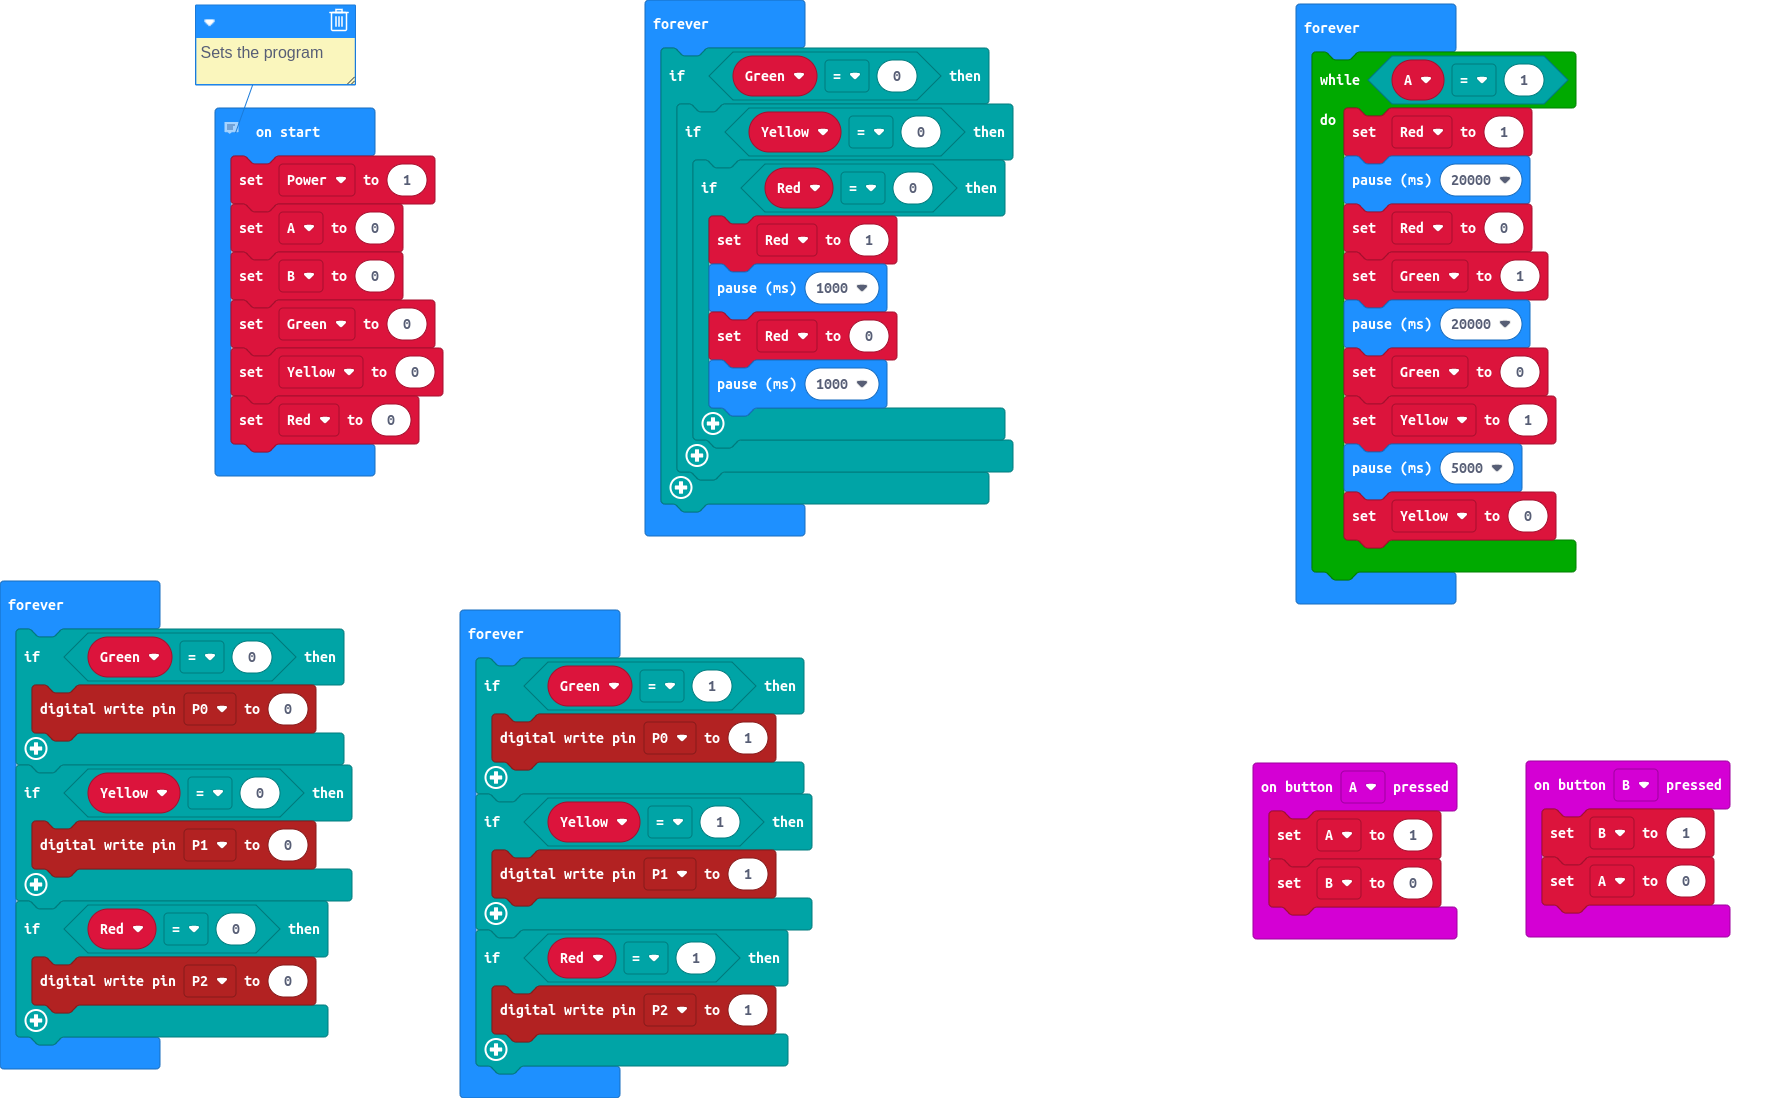
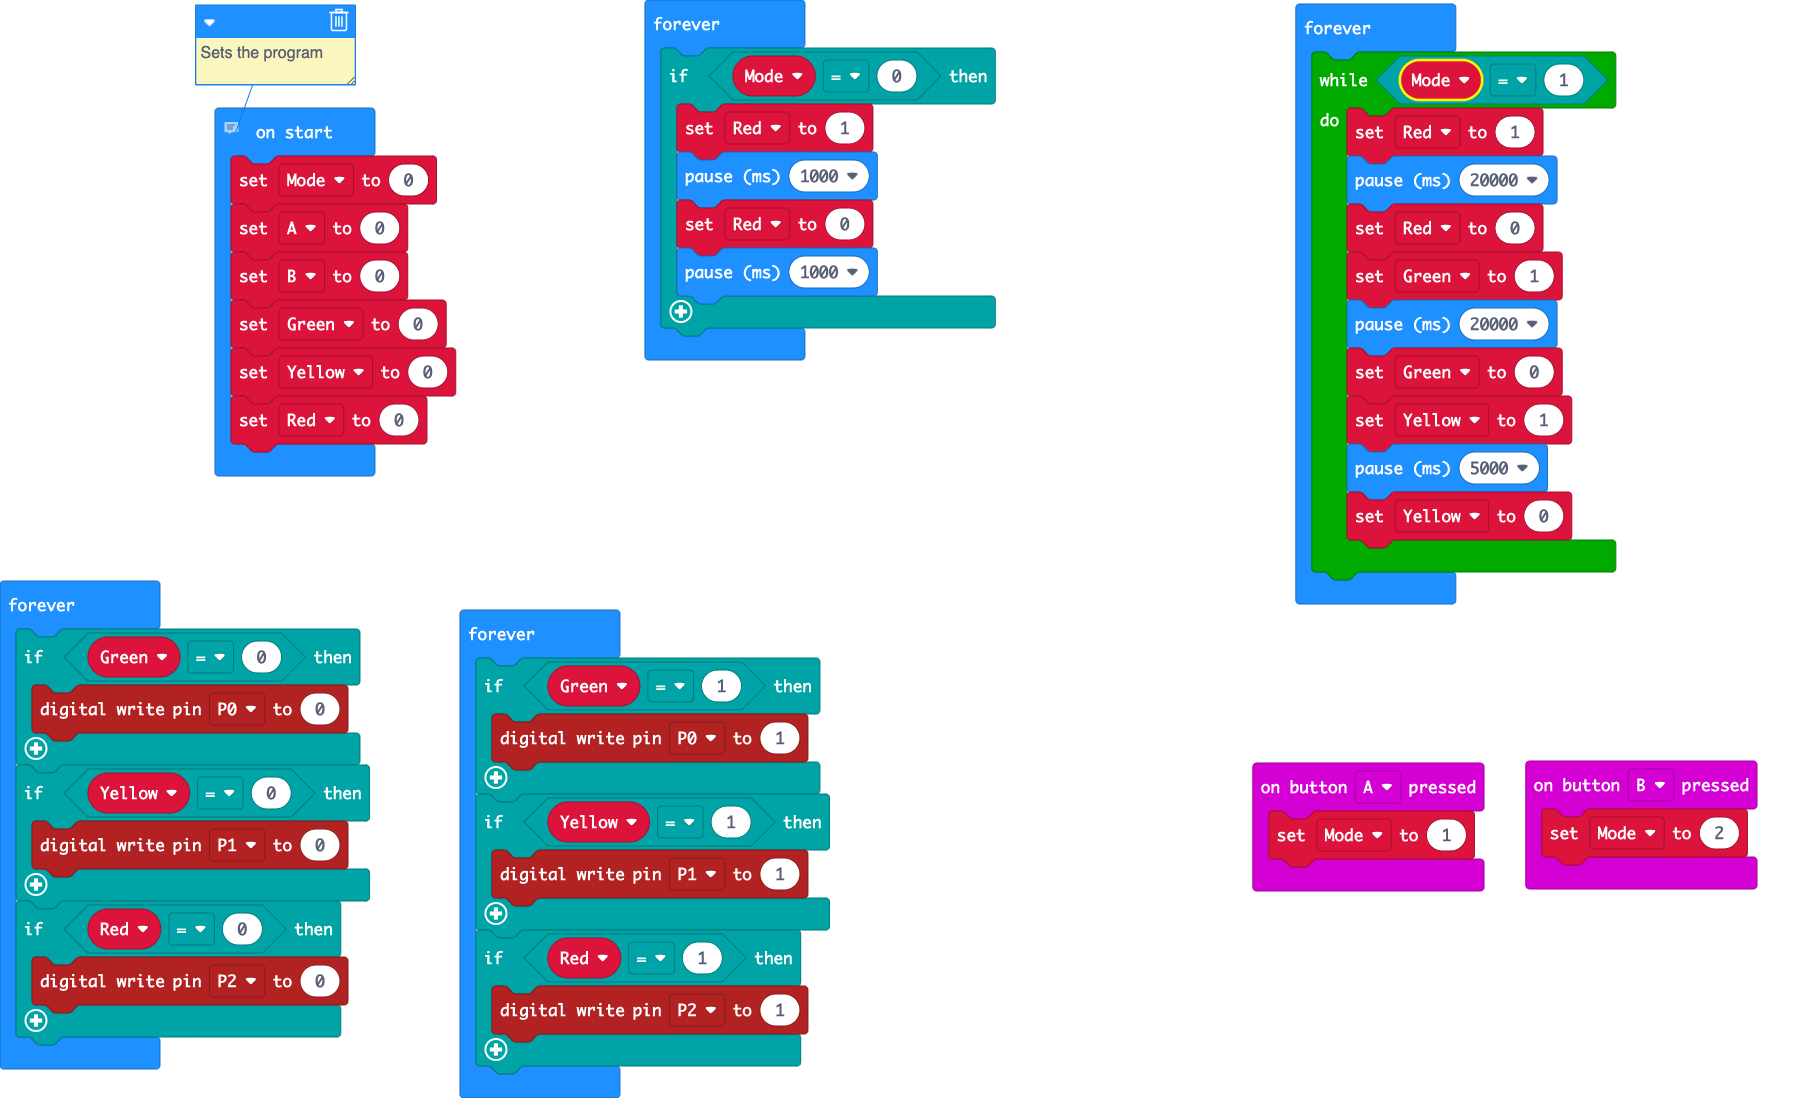
Update main.blocks, main.ts

diff --git a/main.ts b/main.ts
@@ -1,34 +1,27 @@
 input.onButtonPressed(Button.A, function () {
-    A = 1
-    B = 0
+    Mode = 1
 })
 input.onButtonPressed(Button.B, function () {
-    B = 1
-    A = 0
+    Mode = 2
 })
 // Sets the program
-let B = 0
+let Mode = 0
+Mode = 0
 let A = 0
-let Power = 1
-A = 0
-B = 0
+let B = 0
 let Green = 0
 let Yellow = 0
 let Red = 0
 basic.forever(function () {
-    if (Green == 0) {
-        if (Yellow == 0) {
-            if (Red == 0) {
-                Red = 1
-                basic.pause(1000)
-                Red = 0
-                basic.pause(1000)
-            }
-        }
+    if (Mode == 0) {
+        Red = 1
+        basic.pause(1000)
+        Red = 0
+        basic.pause(1000)
     }
 })
 basic.forever(function () {
-    while (A == 1) {
+    while (Mode == 1) {
         Red = 1
         basic.pause(20000)
         Red = 0
